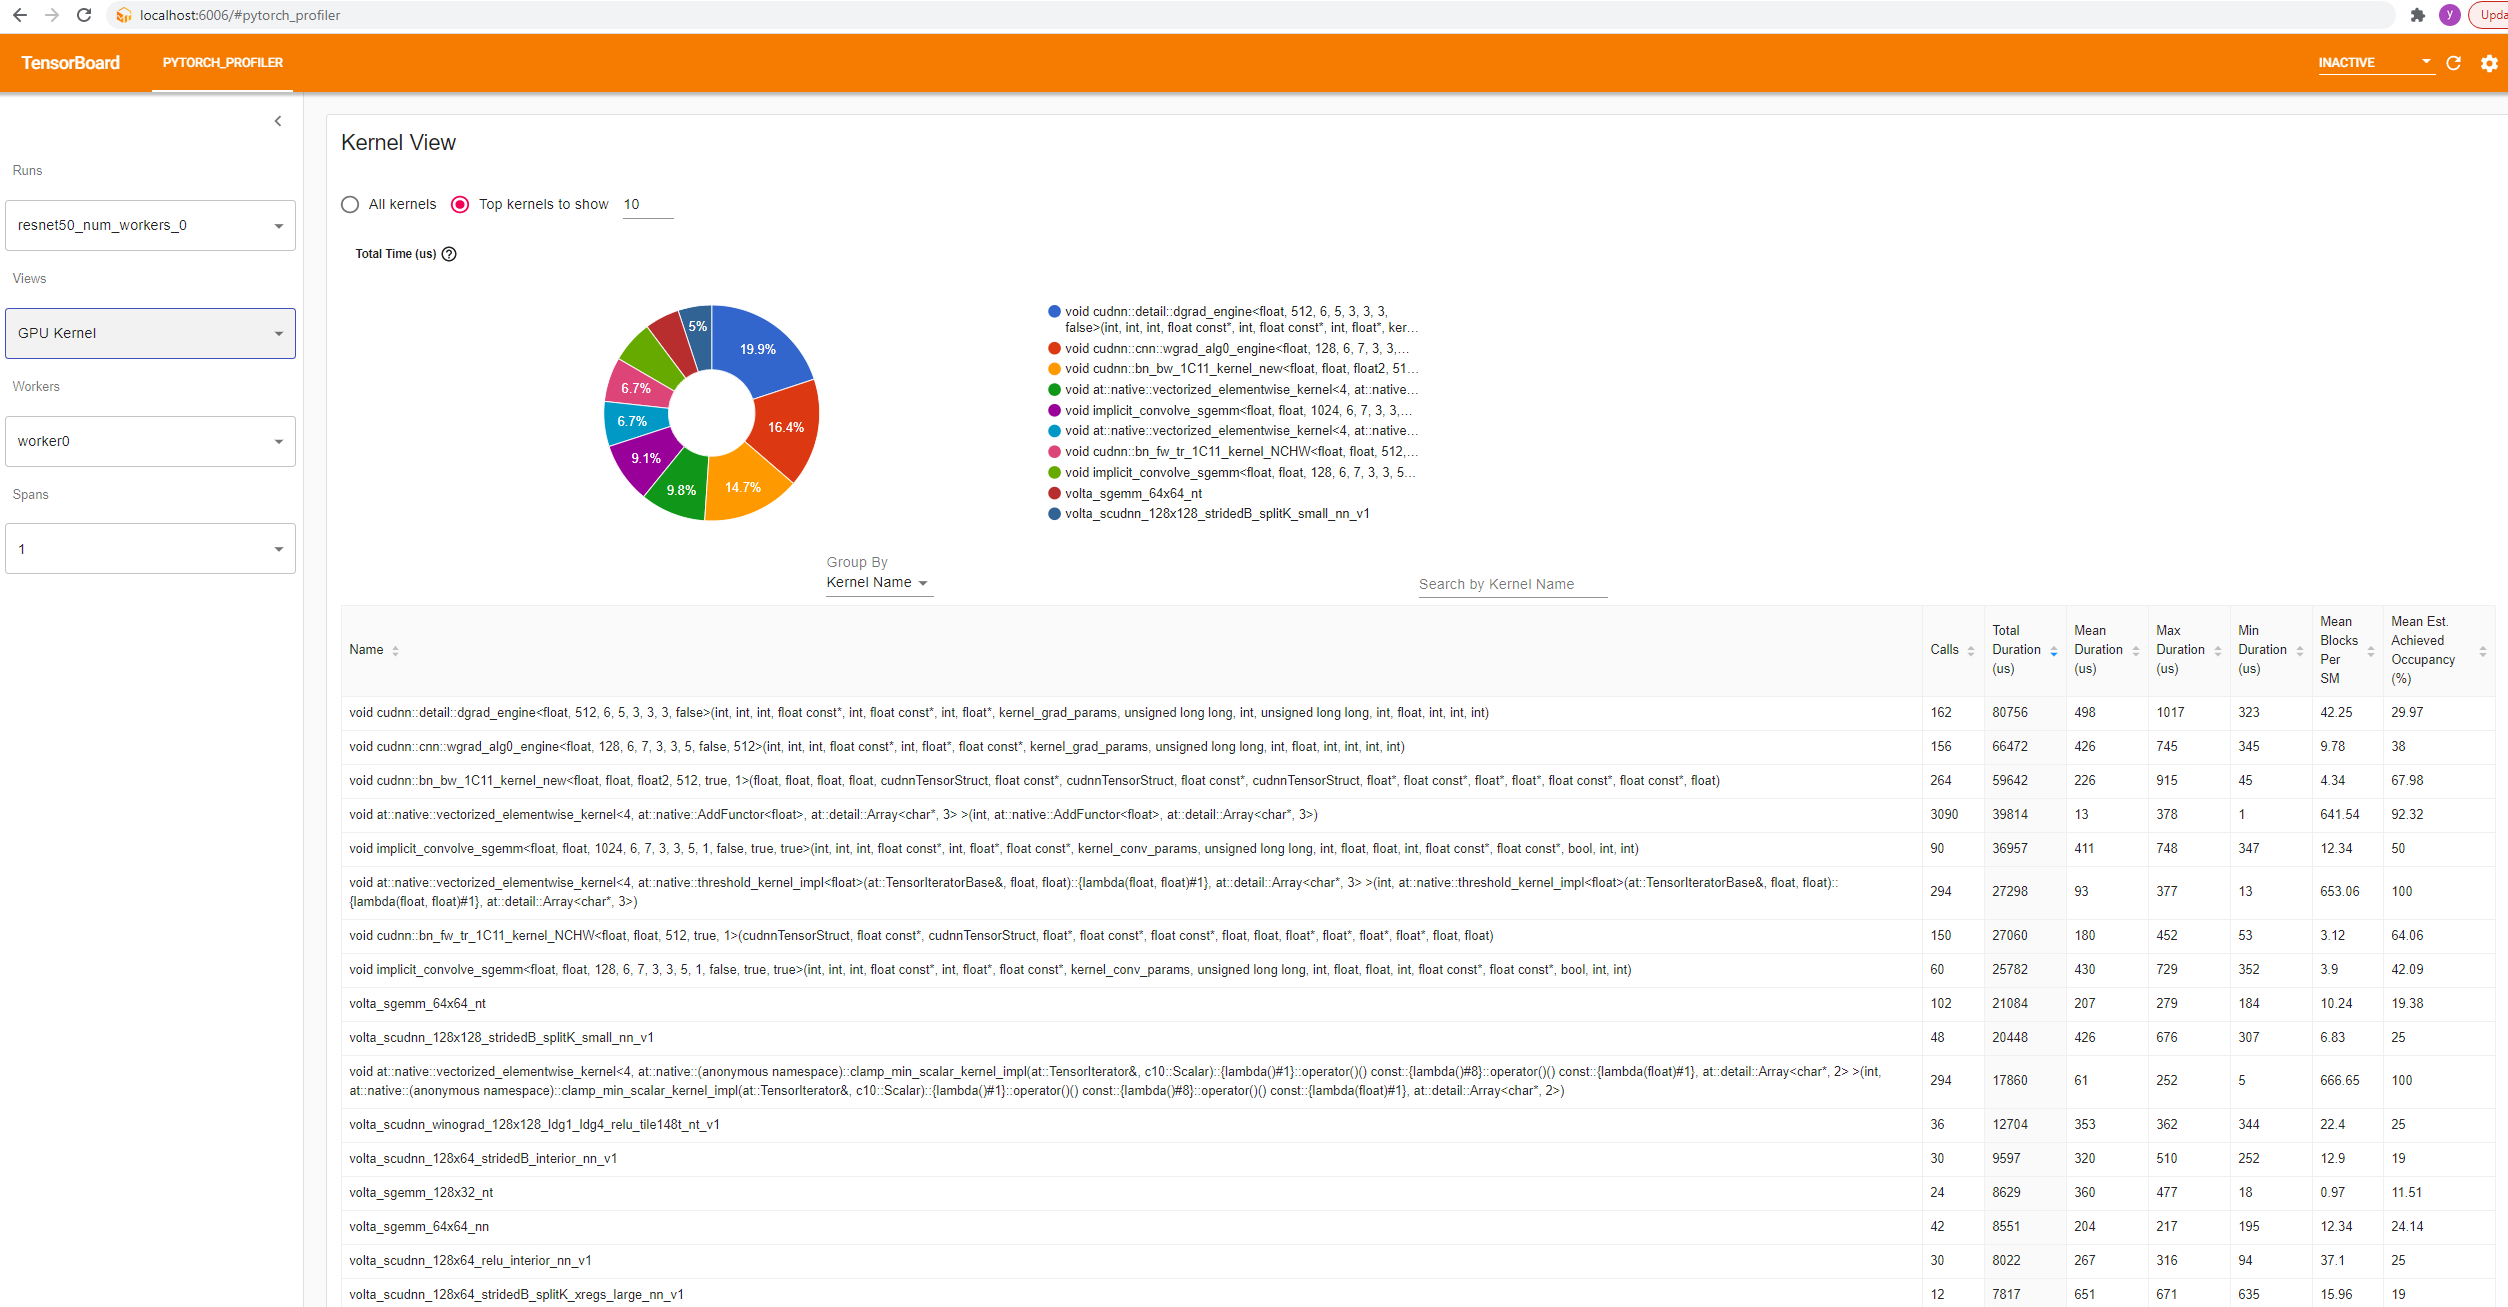
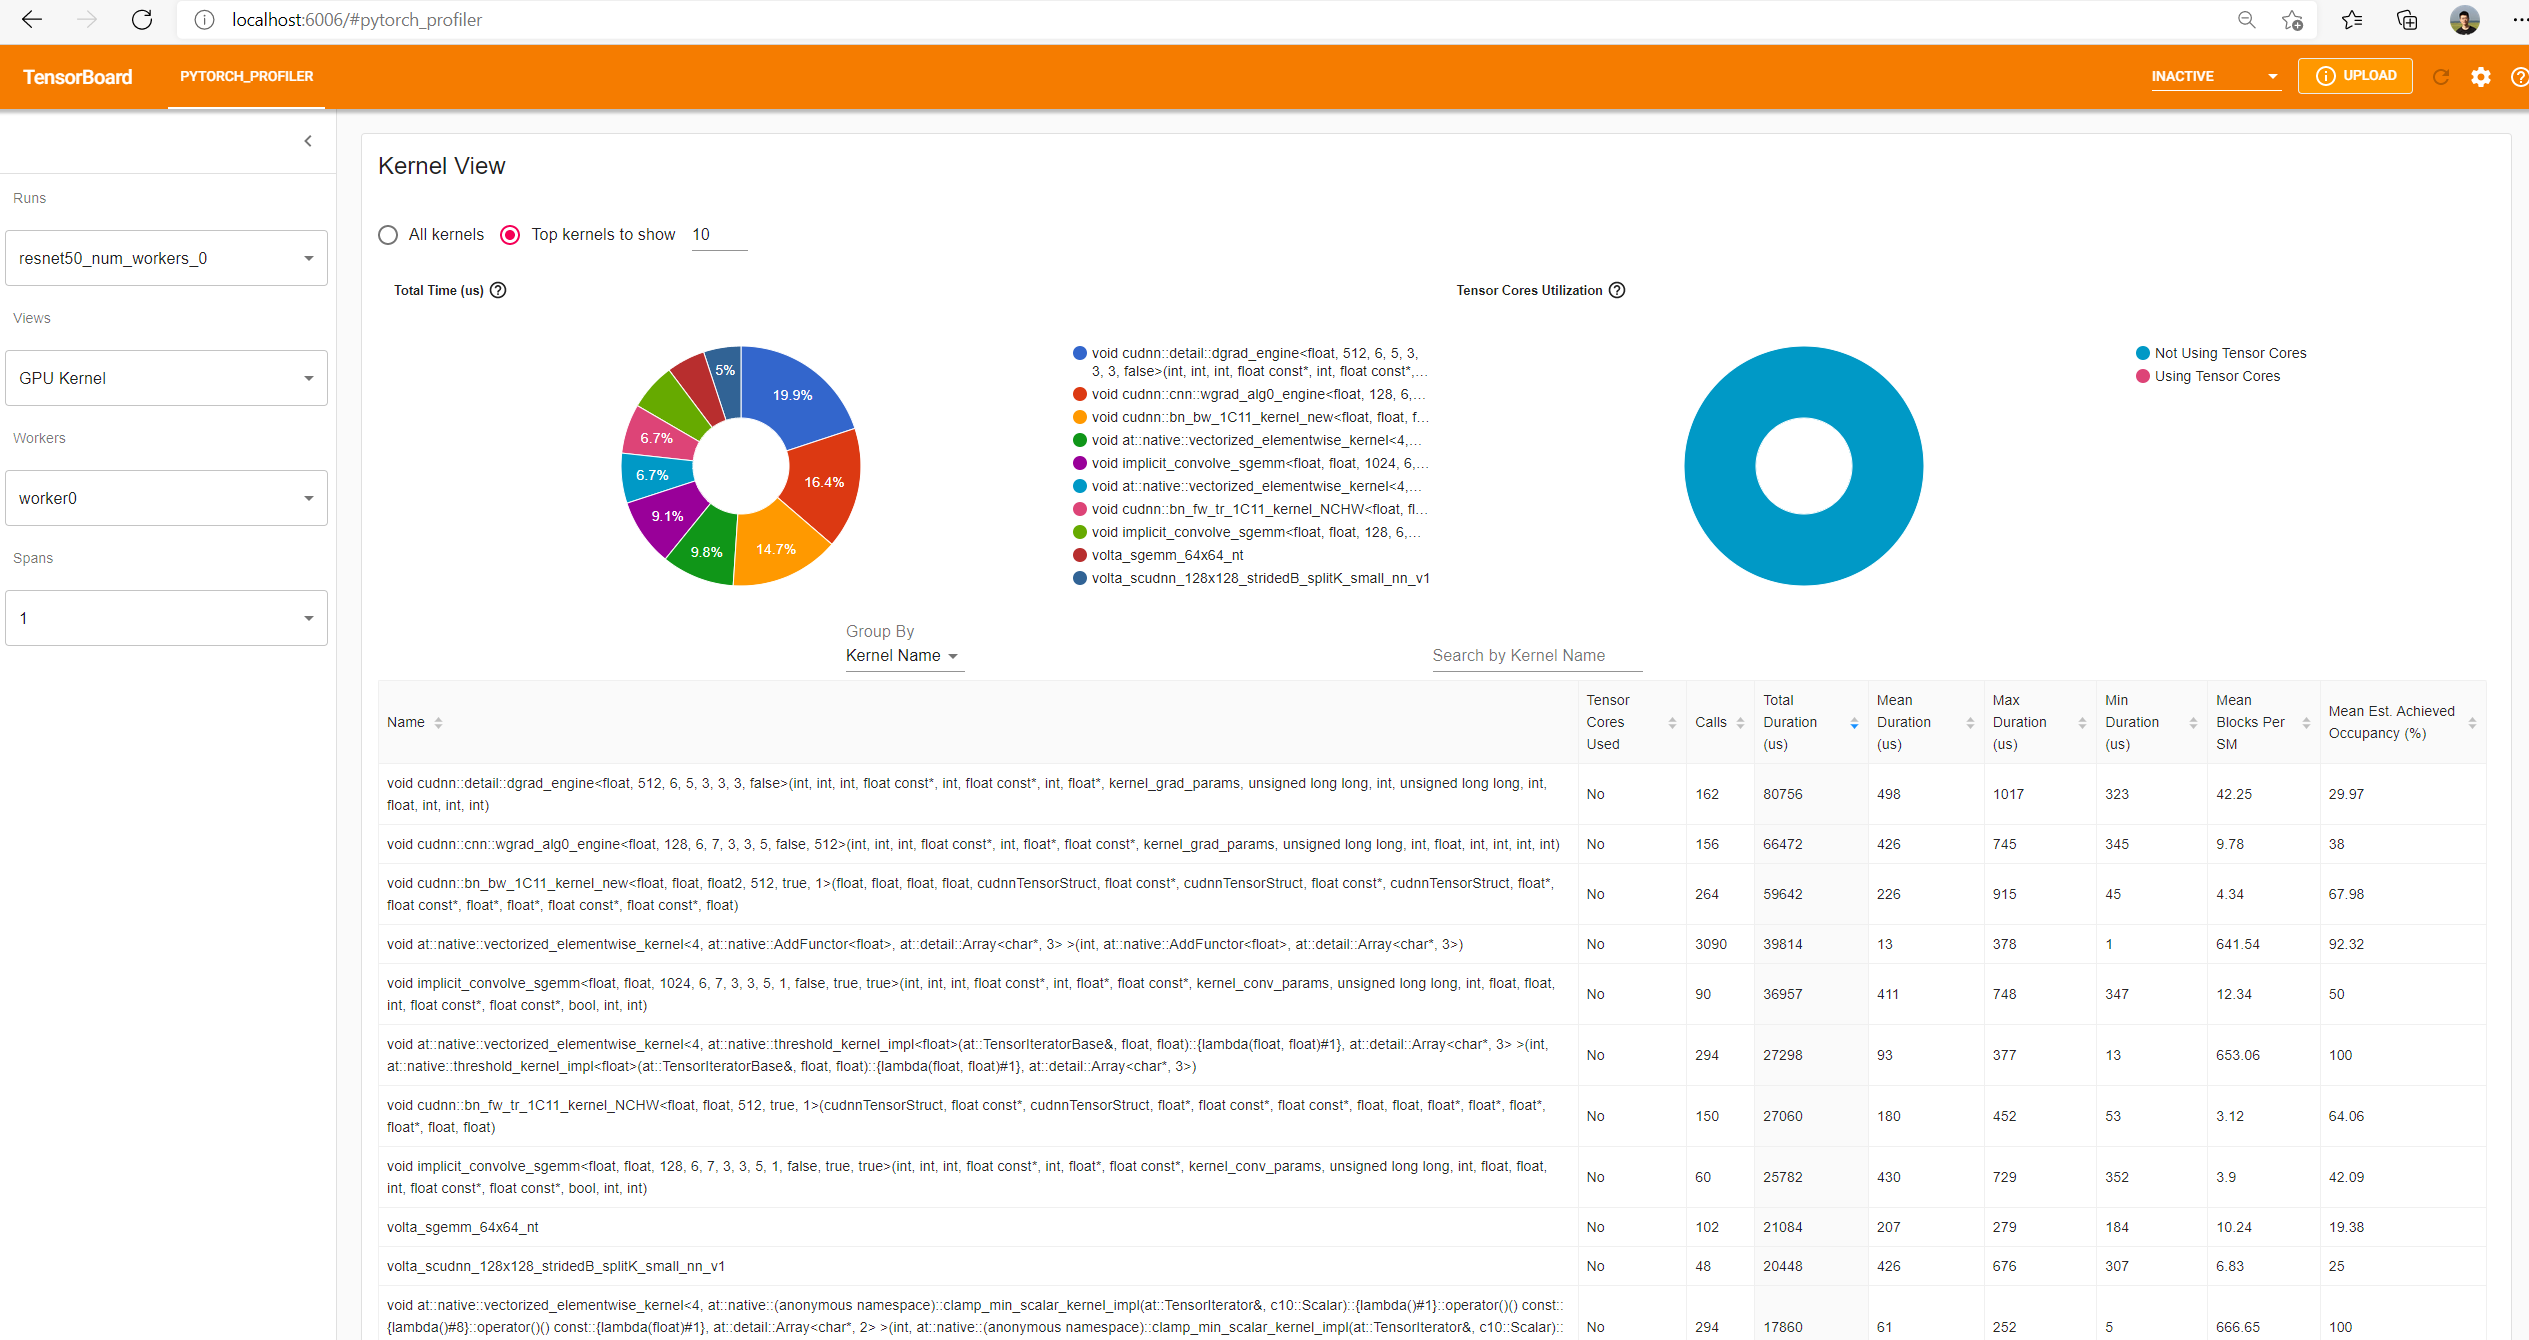
update readme doc to include Tensor Cores, 4 new columns in kernel view, and forward-backward correlation in trace view

diff --git a/tb_plugin/README.md b/tb_plugin/README.md
@@ -151,7 +151,8 @@ An example of overall view:
 
 The 'GPU Summary' panel shows GPU information and usage metrics of this run, include name, global memory, compute capability of this GPU.
 The 'GPU Utilization', 'Est. SM Efficiency' and 'Est. Achieved Occupancy' shows GPU usage efficiency of this run at different levels.
-The detailed information about these three metrics can be found at [gpu_utilization](./docs/gpu_utilization.md).
+The 'Kernel Time using Tensor Cores' shows percent of the time Tensor Core kernels are active.
+The detailed information about the above four metrics can be found at [gpu_utilization](./docs/gpu_utilization.md).
 
 
 The 'Step Time Breakdown' panel shows the performance summary. We regard each iteration (usually a mini-batch) as a step.
@@ -209,6 +210,13 @@ Host Self Duration: The accumulated time spent on Host, not including this opera
 
 Host Total Duration: The accumulated time spent on Host, including this operator’s child operators.
 
+Tensor Cores Eligible: Whether this operator is eligible to use Tensor Cores.
+
+Tensor Cores Self (%): Time of self-kernels with Tensor Cores / Time of self-kernels.
+                       Self-kernels don't include kernels launched by this operator’s child operators.
+
+Tensor Cores Total (%): Time of kernels with Tensor Cores / Time of kernels.
+
 CallStack: All call stacks of this operator if it has been recorded in profiling trace file.
            To dump this call stack information, you should set the 'with_stack' parameter in torch.profiler API.
            The TensorBoard has integrated to VSCode, if you launch TensorBoard in VSCode, clicking this CallStack will forward to corresponding line of source code as below:
@@ -243,6 +251,8 @@ the following 7 ones are scalar variables.
 
     ![Alt text](./docs/images/kernel_view.PNG)
 
+    * Tensor Cores Used: Whether this kernel uses Tensor Cores.
+
     * Total Duration: The accumulated time of all calls of this kernel.
 
     * Mean Duration: The average time duration of all calls. That's "Total Duration" divided by "Calls".
@@ -264,15 +274,32 @@ the following 7 ones are scalar variables.
     * Mean Est. Achieved Occupancy: The definition of Est. Achieved Occupancy can refer to [gpu_utilization](./docs/gpu_utilization.md), It is weighted average of all runs of this kernel name, using each run’s duration as weight. 
 
 
-
-The top pie chart is a visualization of "Total Duration" column.
+The top left pie chart is a visualization of "Total Duration" column.
 It makes the breakdowns visible at a glance.
 Only the top N kernels sorted by accumulated time (configurable in the text box) will be shown in the pie chart.
+
+The top right pie chart is percent of the kernel time using and without using Tensor Cores.
 
 The search box enables searching kernels by name.
 
 "Group By" could choose between "Kernel Name" and "Kernel Properties + Op Name".
-The "Operator" is the PyTorch operator which launches this kernel.
+
+"Kernel Name" will group kernels by kernel name.
+
+"Kernel Properties + Op Name" will group kernels by combination of kernel name, launching operator name,
+grid, block, registers per thread, and shared memory.
+
+![Alt text](./docs/images/trace_view.PNG)
+
+    * Operator: The name of PyTorch operator which launches this kernel.
+
+    * Grid: Grid size of this kernel.
+
+    * Block: Block size of this kernel.
+
+    * Register Per Thread: Number of registers required for each thread executing the kernel.
+
+    * Shared Memory: Sum of dynamic shared memory reserved, and static shared memory allocated for this kernel.
 
 * Trace View
 
@@ -308,6 +335,12 @@ you can see the relationship between an operator and its launched kernels.
 You can also view the gpu utilization and Est. SM Efficiency in the trace view. They are drawn alongside the timeline:
 
 ![Alt text](./docs/images/trace_view_gpu_utilization.PNG)
+
+When you select the top-right corner's "Flow events" to "fwd_bwd_correlation",
+you can see the relationship between forward operator and its launched backward operator.
+Note: Only the backward operator's direct launching forward operator will be connected by line,
+its ancestor operators which call this operator as child will not be connected.
+![Alt text](./docs/images/trace_view_fwd_bwd_correlation.PNG)
 
 * Memory View
 

diff --git a/tb_plugin/docs/gpu_utilization.md b/tb_plugin/docs/gpu_utilization.md
@@ -14,4 +14,9 @@
                            active warps supported by the SM. The theoretical occupancy of a kernel is upper limit occupancy of this kernel, limited by multiple 
                            factors such as kernel shape, kernel used resource, and the GPU compute capability. 
                            Est. Achieved Occupancy of a kernel, OCC_K = min(threads of the kernel / SM number / max threads per SM, theoretical occupancy of the kernel). 
-                           This overall number is the weighted sum of all kernels OCC_K using kernel's execution duration as weight. It shows fine-grained low-level GPU utilization. 
+                           This overall number is the weighted sum of all kernels OCC_K using kernel's execution duration as weight. It shows fine-grained low-level GPU utilization.
+
+ * Kernel Time using Tensor Cores: Total GPU Time for Tensor Core kernels / Total GPU Time for all kernels. Higher is better.
+                                   Tensor Cores are mixed precision floating point operations available for Volta GPUs (Titan V) and beyond.
+                                   The cuDNN and cuBLAS libraries contain several Tensor Cores enabled GPU kernels for most Convolution and GEMM operations.
+                                   This number shows Tensor Cores usage time ratio among all kernels on a GPU.
